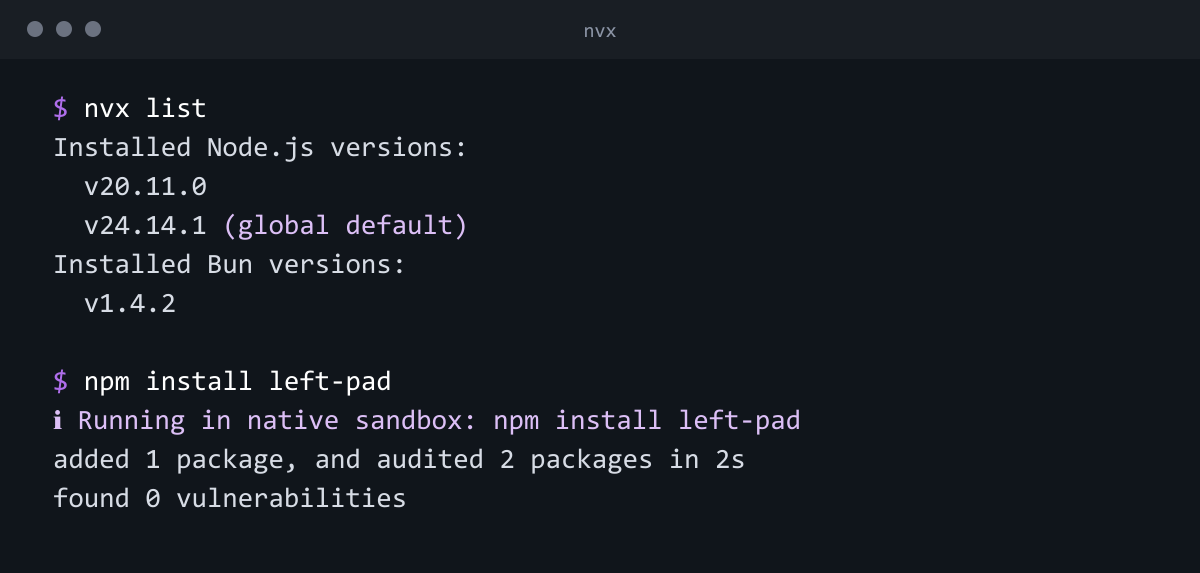
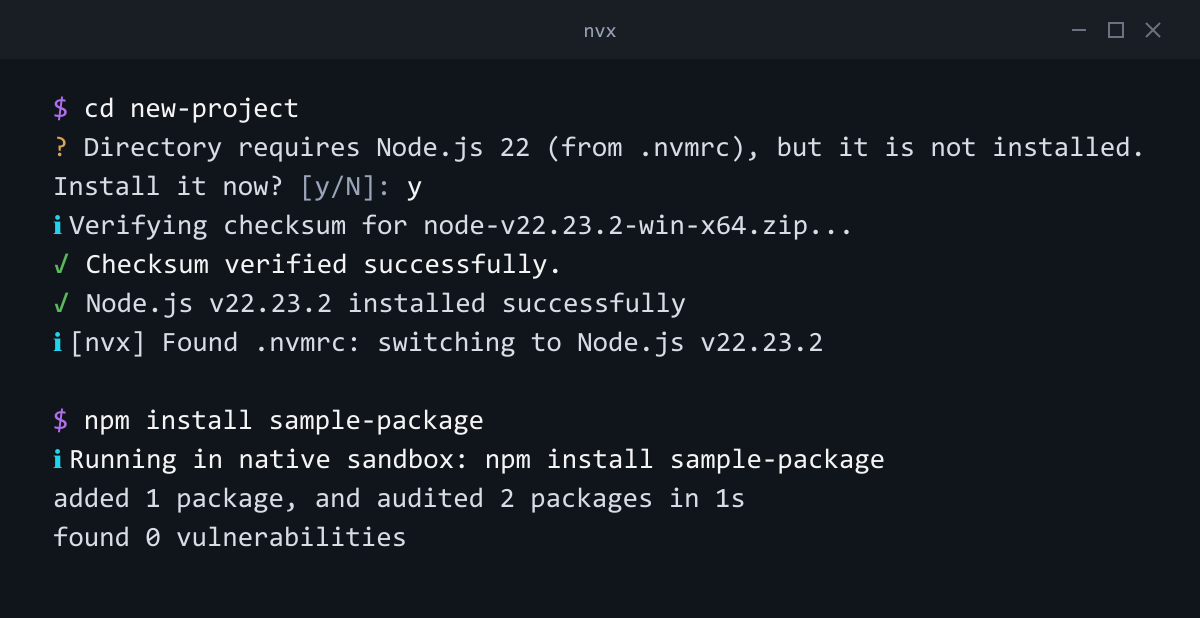
Serve install commands from nvx.run, and frame the hero terminal as Windows
The one-liners in the README, the install docs page, the hero and the
install section pointed at raw.githubusercontent.com. They now point at
https://nvx.run/install.ps1 and install.sh, which the site's prebuild
already copies into public/ from the repository root. nvx.run does not
resolve yet; these work once the site is published there.

The hero terminal's output is Windows (a win-x64 zip, an AppContainer
run), so it now wears the Windows frame: title on the left, minimise,
maximise and close on the right. heroTerminalChrome selects it, using
the TerminalChrome type the template's image terminal already has.

The sample install is sample-package rather than left-pad, re-captured
2026-09-24 with nvx 0.6.0 on Windows: "added 1 package, and audited 2
packages in 1s". terminal.ts carries the same capture so
`npm run assets:terminal` redraws the social card from it; the long
prompt line is wrapped there because the renderer clips rather than
wraps.

diff --git a/site/src/data/site-content/hero.ts b/site/src/data/site-content/hero.ts
@@ -15,8 +15,8 @@ export const hero: Hero = {
   heading: 'Node.js and Bun versions, with a sandbox around every install',
   subhead:
     'Install, switch and pin runtimes per project, and auto-switch on cd. Every npm install runs inside an OS sandbox that confines writes to the project and blocks hosts you did not allow.',
-  quickInstall: 'irm https://raw.githubusercontent.com/fstubner/nvx/main/install.ps1 | iex',
-  quickInstallAlt: 'curl -fsSL https://raw.githubusercontent.com/fstubner/nvx/main/install.sh | sh',
+  quickInstall: 'irm https://nvx.run/install.ps1 | iex',
+  quickInstallAlt: 'curl -fsSL https://nvx.run/install.sh | sh',
   installLinkLabel: 'More install options ↓',
   // Every line is what the command line prints at DEFAULT verbosity, from one
   // machine on 2026-09-17, after the auto-install fix in 9fcc19a.
@@ -32,8 +32,9 @@ export const hero: Hero = {
   // yellow `?`, the question runAuto builds, and ` [y/N]: `. The `y` is the
   // reader's keystroke. Subtractive edits only: the install's "Installing" and
   // "URL" lines, the download bar, the extract timing and the install path are
-  // dropped, as are npm's deprecation warning for left-pad and its upgrade
-  // notice. Nothing is reworded or invented.
+  // dropped, as is npm's upgrade notice. Nothing is reworded or invented. The
+  // install is sample-package, a real package with no dependencies and no
+  // install scripts, captured on 2026-09-24 with nvx 0.6.0 on Windows.
   heroTerminalHtml: `<span class="t-dim">$</span> cd new-project
 <span class="t-warn">?</span> Directory requires Node.js 22 (from .nvmrc), but it is not installed. Install it now? <span class="t-dim">[y/N]:</span> y
 <span class="t-info">&#8505;</span> Verifying checksum for node-v22.23.2-win-x64.zip...
@@ -41,16 +42,18 @@ export const hero: Hero = {
 <span class="t-ok">&#10004;</span> Node.js v22.23.2 installed successfully
 <span class="t-info">&#8505;</span> [nvx] Found .nvmrc: switching to Node.js v22.23.2
 
-<span class="t-dim">$</span> npm install left-pad
-<span class="t-info">&#8505;</span> <span class="t-hi">Running in native sandbox: npm install left-pad</span>
-added 1 package, and audited 2 packages in 977ms
+<span class="t-dim">$</span> npm install sample-package
+<span class="t-info">&#8505;</span> <span class="t-hi">Running in native sandbox: npm install sample-package</span>
+added 1 package, and audited 2 packages in 1s
 found 0 vulnerabilities`,
+  // Windows, because the output is: a win-x64 zip and an AppContainer run.
+  heroTerminalChrome: 'windows',
   heroTerminalLabel:
     'A terminal entering a project pinned to a Node.js version that is not installed. nvx asks whether to install it, verifies the checksum, installs it and switches to it, then a package installs inside the native sandbox',
   heroImage: '/assets/hero.png',
-  heroImageAlt: 'A terminal showing nvx list, then npm install running inside the native sandbox and finishing with no vulnerabilities',
+  heroImageAlt: 'A terminal entering a project pinned to a Node.js version that is not installed; nvx installs and switches to it, then npm install runs inside the native sandbox',
   heroImageWidth: 1200,
-  heroImageHeight: 573,
+  heroImageHeight: 618,
   sourceUrl: 'https://github.com/fstubner/nvx',
   downloadLabel: 'Desktop app',
   downloadMenuLabel: 'Choose desktop installer',
@@ -61,16 +64,16 @@ export const heroCommands: HeroCommands = {
   // Homebrew or npm. Both rows therefore carry the install script rather than
   // advertising a channel that would 404.
   windows: {
-    packageManager: 'irm https://raw.githubusercontent.com/fstubner/nvx/main/install.ps1 | iex',
-    script: 'irm https://raw.githubusercontent.com/fstubner/nvx/main/install.ps1 | iex',
+    packageManager: 'irm https://nvx.run/install.ps1 | iex',
+    script: 'irm https://nvx.run/install.ps1 | iex',
   },
   macos: {
-    packageManager: 'curl -fsSL https://raw.githubusercontent.com/fstubner/nvx/main/install.sh | sh',
-    script: 'curl -fsSL https://raw.githubusercontent.com/fstubner/nvx/main/install.sh | sh',
+    packageManager: 'curl -fsSL https://nvx.run/install.sh | sh',
+    script: 'curl -fsSL https://nvx.run/install.sh | sh',
   },
   linux: {
-    packageManager: 'curl -fsSL https://raw.githubusercontent.com/fstubner/nvx/main/install.sh | sh',
-    script: 'curl -fsSL https://raw.githubusercontent.com/fstubner/nvx/main/install.sh | sh',
+    packageManager: 'curl -fsSL https://nvx.run/install.sh | sh',
+    script: 'curl -fsSL https://nvx.run/install.sh | sh',
   },
 };
 

diff --git a/site/src/data/site-content/terminal.ts b/site/src/data/site-content/terminal.ts
@@ -25,21 +25,27 @@ import type { Terminal } from './terminal-types';
 // roughly half the canvas width in a split hero, so the type is smaller than
 // it looks here. Eleven lines is about the ceiling before the last ones stop
 // being read.
+// nvx renders the hero terminal as text (hero.ts, heroTerminalHtml), so this
+// draws only public/assets/hero.png, the social card image. Same capture as
+// the text panel: nvx 0.6.0 on Windows, 2026-09-24, edited only by removing
+// lines (see the note in hero.ts).
 export const terminal: Terminal = {
-  title: 'REPLACE_ME',
-  // 'macos' draws the three traffic lights on the left, 'windows' the
-  // minimise/maximise/close marks on the right. Match the platform your
-  // output is from: a Mac frame around Windows paths is a small lie that
-  // costs a reader a second of confusion.
-  chrome: 'macos',
+  title: 'nvx',
+  chrome: 'windows',
   lines: [
-    [['$ ', 'prompt'], ['REPLACE_ME --version', 'command']],
-    [['REPLACE_ME 1.0.0', 'text']],
+    [['$ ', 'prompt'], ['cd new-project', 'command']],
+    // One printed line, wrapped where a terminal this wide would wrap it. The
+    // renderer clips rather than wraps, which cut it off mid-word.
+    [['? ', 'warn'], ['Directory requires Node.js 22 (from .nvmrc), but it is not installed.', 'text']],
+    [['Install it now? ', 'text'], ['[y/N]: ', 'muted'], ['y', 'command']],
+    [['ℹ ', 'info'], ['Verifying checksum for node-v22.23.2-win-x64.zip...', 'text']],
+    [['✓ ', 'ok'], ['Checksum verified successfully.', 'strong']],
+    [['✓ ', 'ok'], ['Node.js v22.23.2 installed successfully', 'text']],
+    [['ℹ ', 'info'], ['[nvx] Found .nvmrc: switching to Node.js v22.23.2', 'text']],
     null,
-    [['$ ', 'prompt'], ['REPLACE_ME run', 'command']],
-    [['ℹ ', 'info'], ['Starting up', 'accent']],
-    [['✓ ', 'ok'], ['Did the thing', 'text']],
-    [['⚠ ', 'warn'], ['Something worth knowing', 'text']],
-    [['Done in 2s', 'strong']],
+    [['$ ', 'prompt'], ['npm install sample-package', 'command']],
+    [['ℹ ', 'info'], ['Running in native sandbox: npm install sample-package', 'strong']],
+    [['added 1 package, and audited 2 packages in 1s', 'text']],
+    [['found 0 vulnerabilities', 'text']],
   ],
 };

diff --git a/site/src/data/site-content/install.ts b/site/src/data/site-content/install.ts
@@ -13,7 +13,7 @@ export const installByPlatform: Record<Platform, PlatformInstall> = {
     cli: [
       {
         label: 'PowerShell',
-        command: 'irm https://raw.githubusercontent.com/fstubner/nvx/main/install.ps1 | iex',
+        command: 'irm https://nvx.run/install.ps1 | iex',
       },
       { label: 'Binary', href: `${RELEASE}/nvx.exe`, hint: 'x64, unsigned, so SmartScreen will ask before it runs.' },
     ],
@@ -23,7 +23,7 @@ export const installByPlatform: Record<Platform, PlatformInstall> = {
     cli: [
       {
         label: 'Shell',
-        command: 'curl -fsSL https://raw.githubusercontent.com/fstubner/nvx/main/install.sh | sh',
+        command: 'curl -fsSL https://nvx.run/install.sh | sh',
       },
       { label: 'Apple silicon', href: `${RELEASE}/nvx-darwin-arm64` },
       { label: 'Intel', href: `${RELEASE}/nvx-darwin-amd64` },
@@ -34,7 +34,7 @@ export const installByPlatform: Record<Platform, PlatformInstall> = {
     cli: [
       {
         label: 'Shell',
-        command: 'curl -fsSL https://raw.githubusercontent.com/fstubner/nvx/main/install.sh | sh',
+        command: 'curl -fsSL https://nvx.run/install.sh | sh',
       },
       { label: 'x86_64', href: `${RELEASE}/nvx-linux-amd64` },
       { label: 'arm64', href: `${RELEASE}/nvx-linux-arm64` },

diff --git a/site/src/data/site-content/surfaces.ts b/site/src/data/site-content/surfaces.ts
@@ -43,12 +43,13 @@ export const surfaces: SurfaceCard[] = [
   {
     title: 'Installs, contained',
     body: 'You type the same command. nvx runs it inside the platform sandbox (AppContainer, Landlock, or Seatbelt) with a throwaway <code>HOME</code>, writes confined to the project, and an egress allowlist the contained process cannot talk its way past.',
-    // Captured from a real contained install on 2026-09-14 rather than composed.
+    // Captured from a real contained install rather than composed: on
+    // 2026-09-14 with left-pad, re-captured 2026-09-24 with sample-package.
     // What this replaced showed a blocked egress against an invented host, and
     // was the only output on the page nvx had not actually printed.
-    codeHtml: `<span class="t-dim">$</span> npm install left-pad
-<span class="t-info">&#8505;</span> <span class="t-hi">Running in native sandbox: npm install left-pad</span>
-added 1 package, and audited 2 packages in 2s
+    codeHtml: `<span class="t-dim">$</span> npm install sample-package
+<span class="t-info">&#8505;</span> <span class="t-hi">Running in native sandbox: npm install sample-package</span>
+added 1 package, and audited 2 packages in 1s
 found 0 vulnerabilities`,
   },
   {

diff --git a/README.md b/README.md
@@ -100,7 +100,7 @@ nvx is not a package manager and does not resolve dependencies or manage lockfil
 Run the installer via PowerShell:
 
 ```powershell
-irm https://raw.githubusercontent.com/fstubner/nvx/main/install.ps1 | iex
+irm https://nvx.run/install.ps1 | iex
 ```
 
 *Note: In future releases, I plan to make `nvx` accessible directly via **WinGet**, the **Windows Store**, and other popular repository managers for even easier setup.*
@@ -110,7 +110,7 @@ irm https://raw.githubusercontent.com/fstubner/nvx/main/install.ps1 | iex
 Run the installer via bash:
 
 ```bash
-curl -fsSL https://raw.githubusercontent.com/fstubner/nvx/main/install.sh | sh
+curl -fsSL https://nvx.run/install.sh | sh
 ```
 
 ---

diff --git a/site/src/content/docs/docs/install.md b/site/src/content/docs/docs/install.md
@@ -6,13 +6,13 @@ description: Install nvx on Windows, macOS or Linux, and check that it worked.
 ## Windows
 
 ```powershell
-irm https://raw.githubusercontent.com/fstubner/nvx/main/install.ps1 | iex
+irm https://nvx.run/install.ps1 | iex
 ```
 
 ## macOS and Linux
 
 ```sh
-curl -fsSL https://raw.githubusercontent.com/fstubner/nvx/main/install.sh | sh
+curl -fsSL https://nvx.run/install.sh | sh
 ```
 
 Read a script before piping it to a shell. This one creates `~/.nvx`, puts a

diff --git a/docs/mac-test-request.md b/docs/mac-test-request.md
@@ -12,7 +12,7 @@ last step removes it all.
 ## 1. Install (2 min)
 
 ```bash
-curl -fsSL https://raw.githubusercontent.com/fstubner/nvx/main/install.sh | sh
+curl -fsSL https://nvx.run/install.sh | sh
 ```
 
 Then **open a new terminal window** and run:
